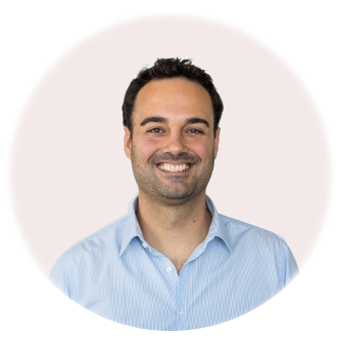
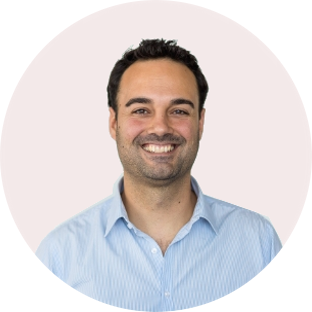
changed my photo

diff --git a/css/main.css b/css/main.css
@@ -504,6 +504,15 @@ textarea.form-control, textarea.form-control:focus {
   transform: translate(-50%, 0);
 }
 
+.my-photo img:nth-child(2){
+    width: 17vw;
+    height: 17vw;
+    min-height: 0;
+    top: 45%;
+    box-shadow: 10px 10px 20px;
+    border-radius: 50%;
+}
+
 .my-photo .mask {
   position: absolute;
   top: 0;
@@ -1903,6 +1912,7 @@ blockquote {
     width: 200px;
     height: 200px;
     border-radius: 50%;
+    box-shadow: 5px 5px 19px;
     margin: 0 auto 40px;
   }
 

diff --git a/index.html b/index.html
@@ -38,7 +38,8 @@
       <!-- Header -->
       <header id="site_header" class="header">
         <div class="my-photo">
-          <img src="images/agf.jpg" alt="image">
+          <img src="images/back.jpg" alt="image">
+          <img class="circle" src="images/agf_circle.png" alt="image">
           <div class="mask"></div>
         </div>
 
